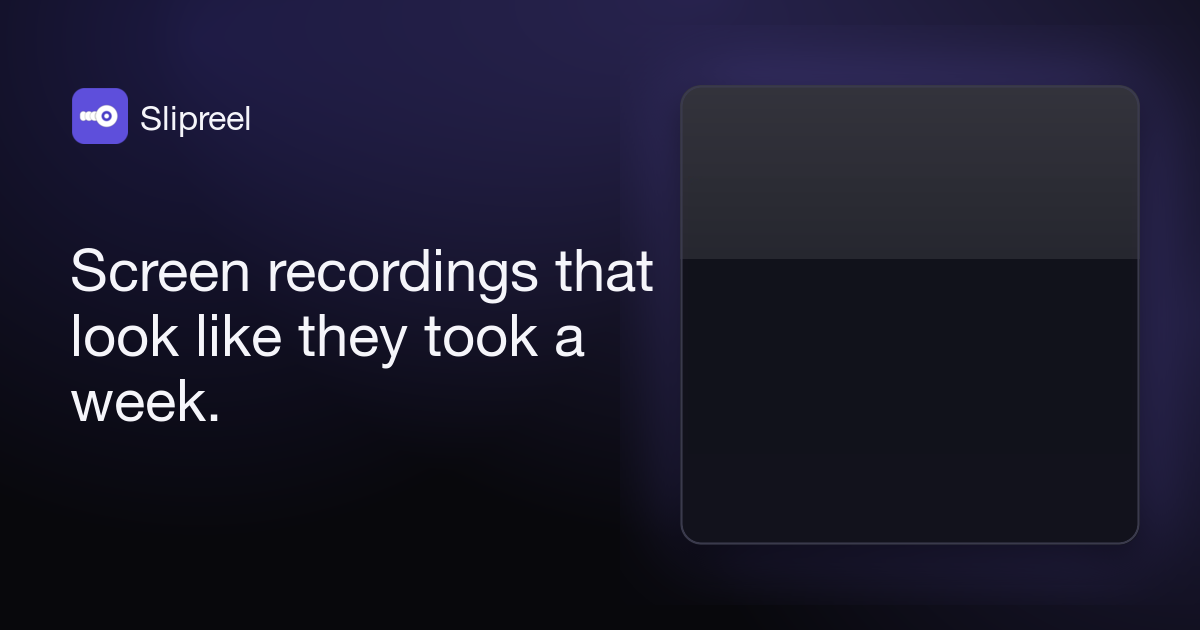
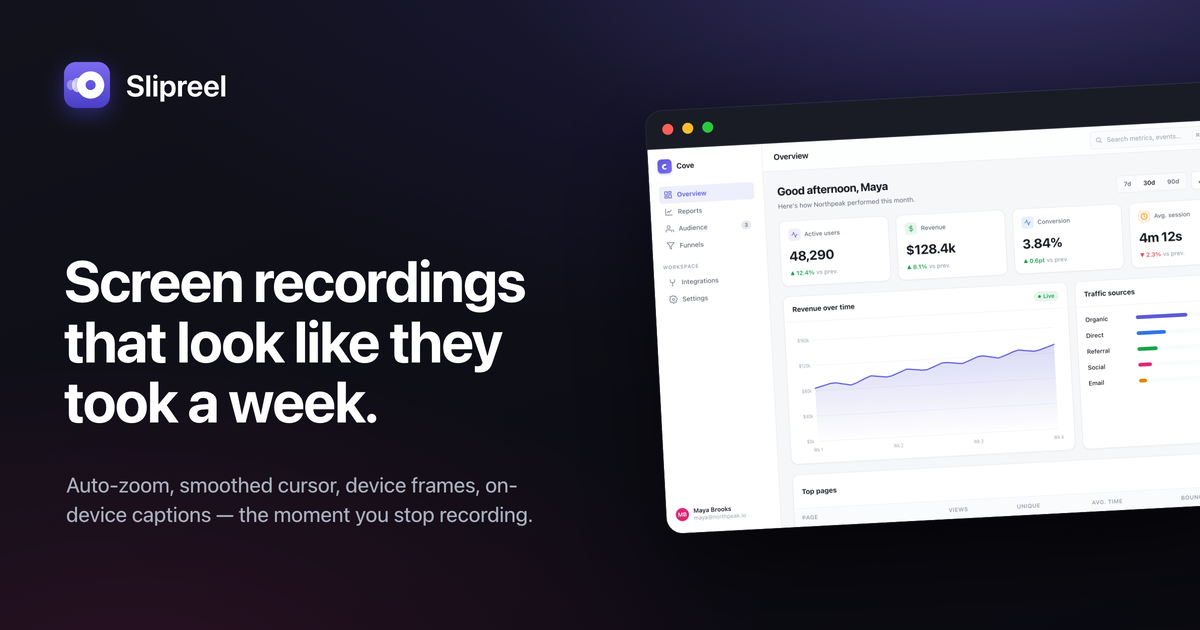
feat(site): real og image for link previews
Replace the empty-preview og.png (product box was blank) with a rendered
card: dark branded background, the Slipreel mark and headline, and the
dashboard shown in a browser frame filling the right side. Add
og:image dimensions/type/alt and an explicit twitter:image.

diff --git a/site/index.html b/site/index.html
@@ -14,7 +14,12 @@
 <meta property="og:title" content="Slipreel — screen recordings that look like they took a week">
 <meta property="og:description" content="Auto-zoom, smoothed cursor, device frames, on-device captions. A macOS screen recorder and editor.">
 <meta property="og:image" content="https://slipreel.app/assets/img/og.png">
+<meta property="og:image:type" content="image/png">
+<meta property="og:image:width" content="1200">
+<meta property="og:image:height" content="630">
+<meta property="og:image:alt" content="Slipreel — screen recordings that look like they took a week. A dashboard recording shown in the Slipreel editor.">
 <meta name="twitter:card" content="summary_large_image">
+<meta name="twitter:image" content="https://slipreel.app/assets/img/og.png">
 <link rel="preload" href="assets/fonts/inter-variable.woff2" as="font" type="font/woff2" crossorigin>
 <link rel="stylesheet" href="assets/css/site.css">
 <script type="application/ld+json">
